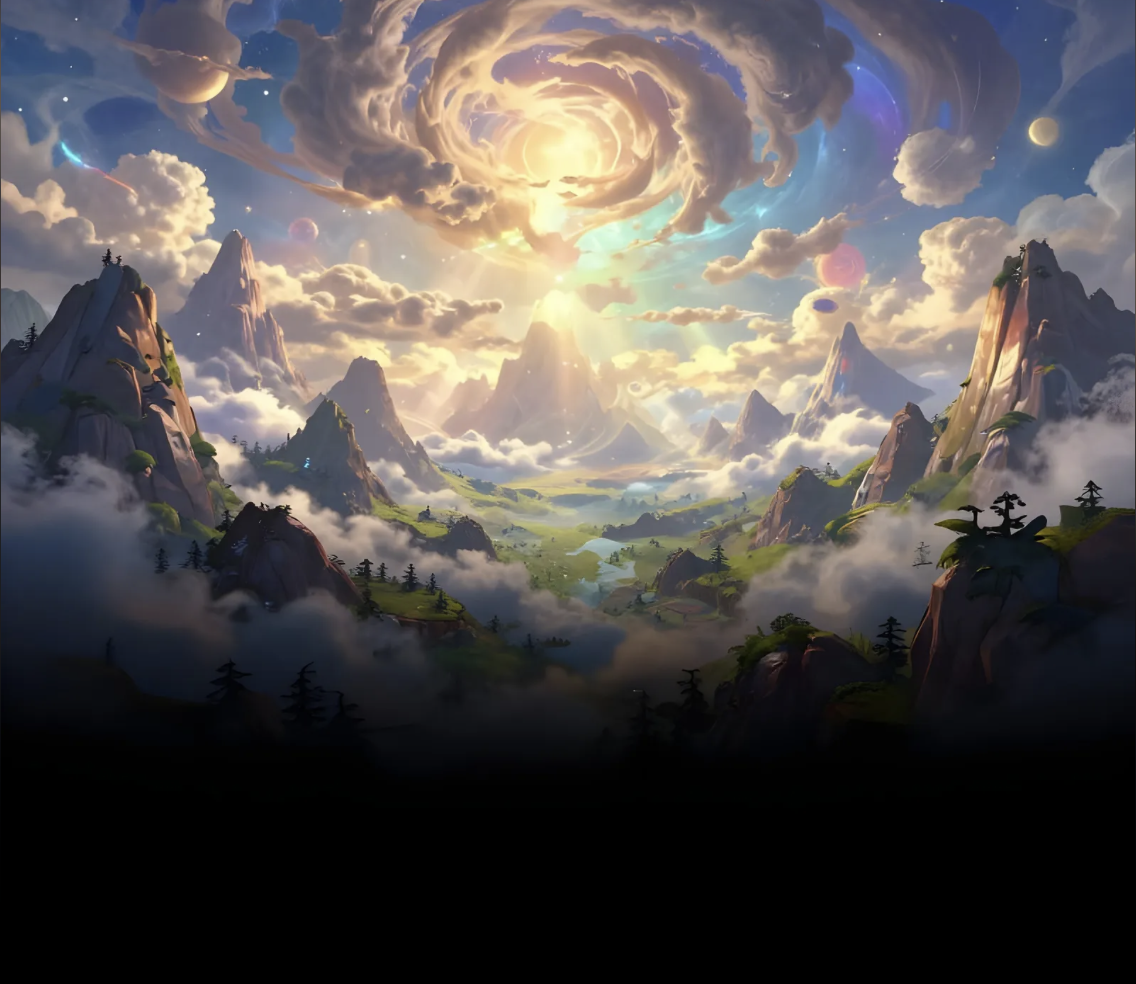
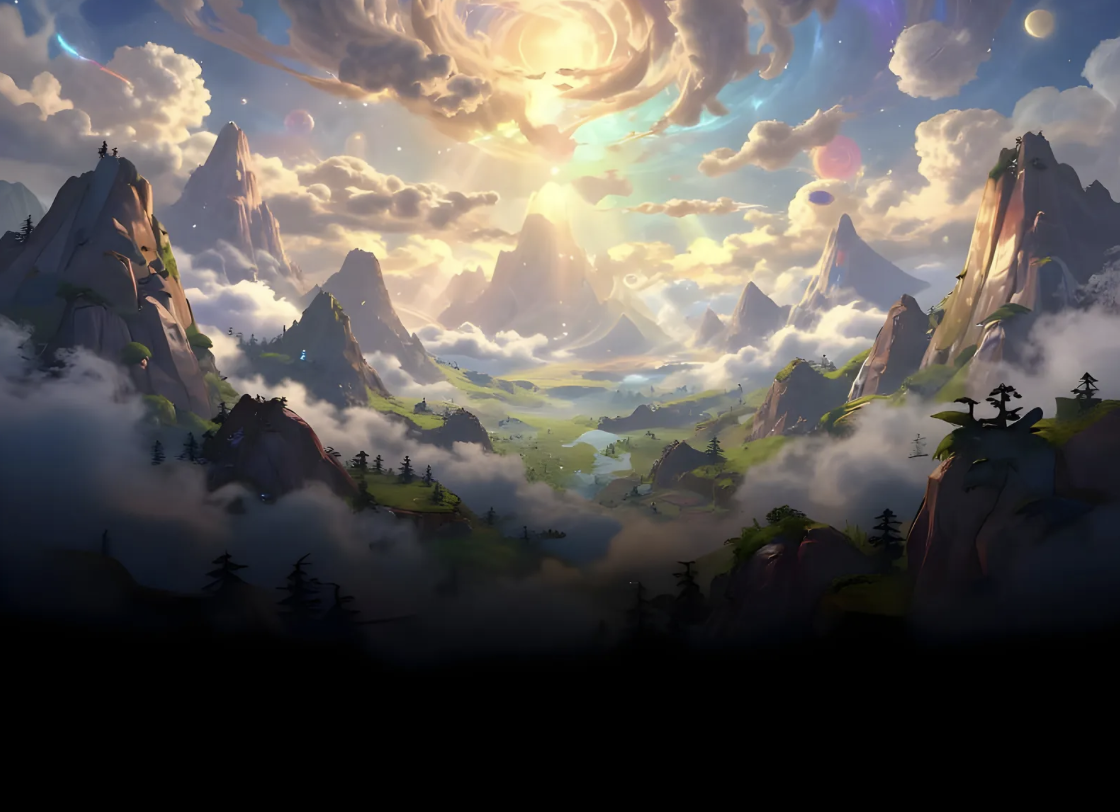
Muutin taustakuvien maksimikokoa ja resoluutioita

diff --git a/guide.html b/guide.html
@@ -21,7 +21,8 @@
     <nav class="navbar navbar-expand-md navbar-dark">
         <div class="container-fluid">
             <a class="navbar-brand" id="navbar-logo" href="index.html">
-                <img src="kuvat/redshieldlogo.png" alt="game logo blue shield" width="40" height="34" class="d-inline-block align-text-center">
+              <img src="kuvat/redshieldlogo.png" alt="game logo red shield" id="logoimage"
+              class="d-inline-block align-text-center" />
                 Crown of Conquest</a>
 
             <button class="navbar-toggler" type="button" data-bs-toggle="collapse" data-bs-target="#navbarNavAltMarkup"
@@ -37,13 +38,13 @@
             </div>
         </div>
     </nav>
-    <img src="kuvat/heroimgscenery.png" class="img-fluid" alt="Mountains with clouds forming circles around the sun and a river flowing through the valley" width="100%" id="hero">
+    <img src="kuvat/heroimgscenery.png" class="img-fluid hero-img" alt="Mountains with clouds forming circles around the sun and a river flowing through the valley" width="100%">
 
     <main>
         <h1 class="text-center mb-5">Learn the rules!</h1>
 <section class="tips mb-5">
         <div class="container">
-          <h2 class="mb-5 text-center">Quick tips for beginners</h2>
+          <h2 class="text-center mb-4">Quick tips for beginners</h2>
           <!--Bootstrapin kortit kahden ruudukon sisällä. 2 korttia vierekkäin 2 rivissä, pienillä näytöillä kaikki kortit päällekkäin.-->
             <div class="row">
                 <div class="col">
@@ -95,7 +96,7 @@
       </section>
 <section class="questions-accordion mb-5">
         <div class="container">
-          <h2 class="text-center mb-5">Questions and answers</h2>
+          <h2 class="text-center mb-4">Questions and answers</h2>
           <!--Tässä on haitari neljällä osiolla.-->
             <div class="accordion" id="accordionExample">
                 <div class="accordion-item">

diff --git a/rankings.html b/rankings.html
@@ -21,8 +21,8 @@
   <nav class="navbar navbar-expand-md navbar-dark">
     <div class="container-fluid">
       <a class="navbar-brand" id="navbar-logo" href="#">
-        <img src="kuvat/redshieldlogo.png" alt="game logo red shield" width="40" height="34"
-          class="d-inline-block align-text-center">
+        <img src="kuvat/redshieldlogo.png" alt="game logo red shield" id="logoimage"
+          class="d-inline-block align-text-center" />
         Crown of Conquest</a>
 
       <button class="navbar-toggler" type="button" data-bs-toggle="collapse" data-bs-target="#navbarNavAltMarkup"
@@ -38,8 +38,8 @@
       </div>
     </div>
   </nav>
-  <img src="kuvat/heroimgvillage.png" class="img-fluid" alt="Small village with a road in the middle and greenery all around" width="100%"
-    id="hero">
+  <img src="kuvat/heroimgvillage.png" class="img-fluid hero-img" alt="Small village with a road in the middle and greenery all around" width="100%"
+    >
 
   <main>
     <h1 class="text-center mb-5">Compete and win!</h1>

diff --git a/index.html b/index.html
@@ -41,8 +41,8 @@
     </div>
   </nav>
   <!--Sivuston aloituskuva, koko näytön levyinen ja luokka img-fluid=kuva pienenee näytön pienentyessä mutta kuvasuhde pysyy.-->
-  <img src="kuvat/heroimgdragon.jpg" class="img-fluid" alt="Red dragon flying among dark clouds above a castle" width="100%"
-    id="hero" />
+  <img src="kuvat/heroimgdragon.png" class="img-fluid hero-img" alt="Red dragon flying among dark clouds above a castle" width="100%"
+     />
 
   <main>
     <h1 class="text-center mb-5">Rise to power!</h1>

diff --git a/style.css b/style.css
@@ -9,6 +9,13 @@ body {
   font-family: Inter;
 }
 
+.hero-img {
+  max-height: 800px;
+  object-fit: cover;
+  object-position: center;
+  margin-bottom: 3rem;
+}
+
 h1 {
   color: #b62919;
   /*Jos alempana asetettu liukuväri ei toimi selaimella, niin tämä väri näkyy sen sijaan.*/
